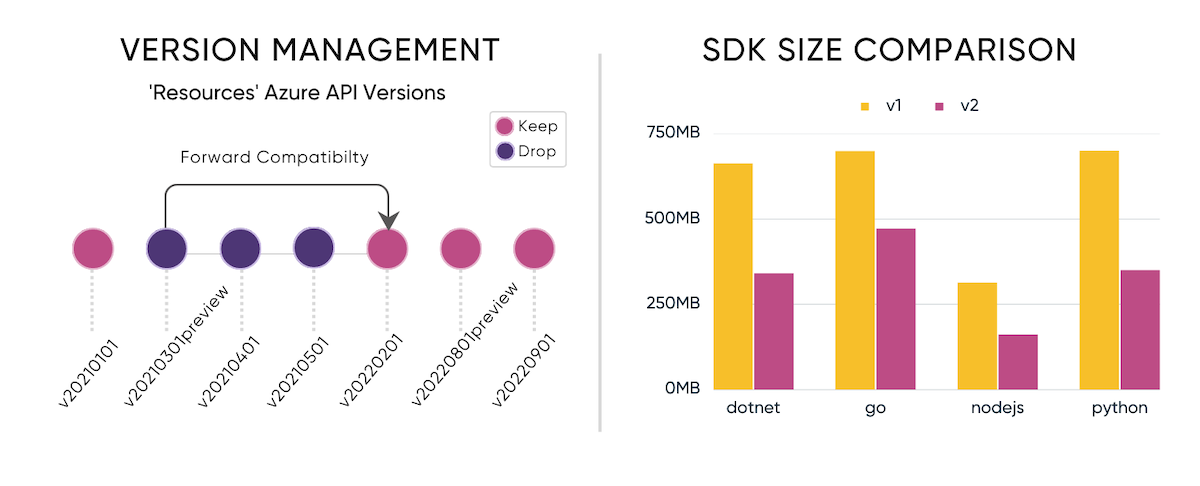
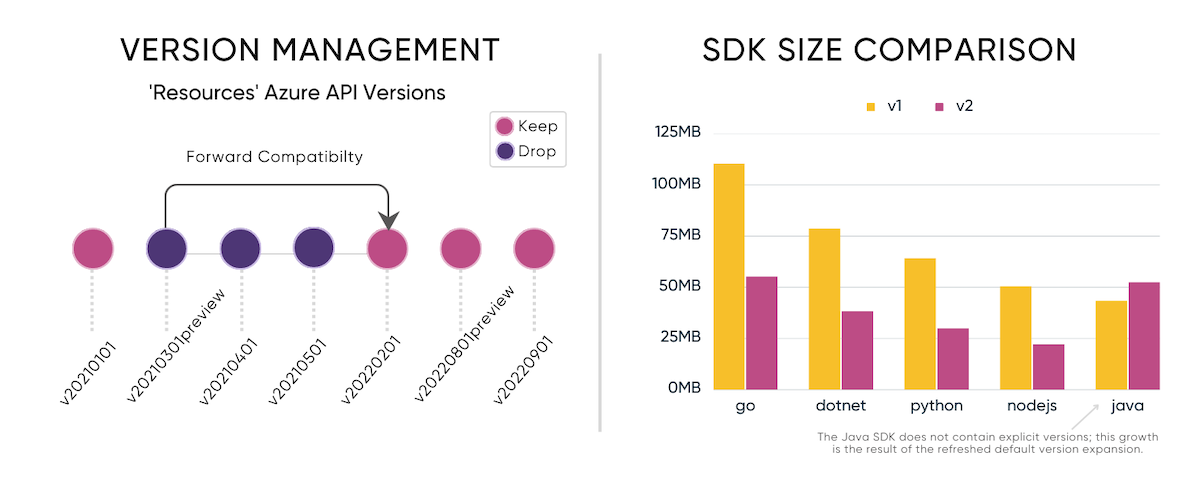
Update graphics, fix typos, clarify versions

diff --git a/pulumi-hugo/themes/default/content/blog/introducing-azure-native-v2/index.md b/pulumi-hugo/themes/default/content/blog/introducing-azure-native-v2/index.md
@@ -16,7 +16,7 @@ tags:
 
 ---
 
-{{% notes type="warning" %}}
+{{% notes type="info" %}}
 The Pulumi Azure Native Provider 2.0 is currently available in beta.
 {{% /notes %}}
 
@@ -26,17 +26,19 @@ We are thrilled to announce the highly anticipated beta release of the Pulumi Az
 
 At Pulumi, we understand the importance of keeping up with the ever-evolving cloud landscape. The Pulumi Azure Native Provider 2.0 represents our commitment to providing you with the best tools to harness the full power of Microsoft Azure while providing you with same-day access to the entire [Azure API surface](https://docs.microsoft.com/en-us/rest/api/azure/). Let's dive into some of the key enhancements in this release:
 
-## Reduced SDK Size for Faster Deployments
+## Reduced SDK Size for Faster Development
 
-We've listened to your feedback and have made significant optimizations to the Azure Native Provider SDKs. With careful fine-tuning and restructuring, we have achieved a remarkable decrease in SDK size of up to 60% <!-- TODO: Get latest size updates on alpha.3 once released -->. This improvement translates into faster deployment times, reduced resource consumption, and an overall smoother experience when working with the provider.
+We've listened to your feedback and have made significant optimizations to the Azure Native Provider SDKs. With careful fine-tuning and restructuring, we have achieved a remarkable decrease in size over 50% in SDKs with multi-versioned modules. This improvement translates into faster development times, reduced resource consumption, and an overall smoother experience when working with the provider.
 
-So, how did we accomplish this? For starters, we've removed all deprecated ARM API resources <!-- TODO: Link to list of deprecated resources --> up to the 2.0 release date. The bigger impact was made by identifying and removing all forward-compatible resource versions. That is to say we've exluded any redundant versions and kept the latest version until breaking changes. Where that version is not the current latest and new default, the explicit versions are still available.
+So, how did we accomplish this? For starters, we've removed all deprecated Azure API modules up to the 2.0 release date. The bigger impact was made by identifying and removing all forward-compatible module versions. That is to say we've excluded any redundant versions and kept only the versions that introduce breaking changes. Where these versions are not the current latest and new default, they remain available as explicit versions.
+
+You may be wondering about the significance between explicit and default versions. Well, when Azure releases new features they often create a new version of a service. These versions are named using dates such as "2021-01-02" or "2022-05-08-preview". There's many versions of each module in the SDK, so we pick a version of each module for the top-level default. To learn more about module versions, visit the [Azure Native Version Guide](https://www.pulumi.com/registry/packages/azure-native/version-guide/).
 
 ![version_squeeze_diagram](./azurev2-diagrams.png)
 
-## Refreshed Default Resource Versions
+## Refreshed Default Module Versions
 
-In the latest release, we have refreshed the default resource versions to align with the latest ARM API versions from Microsoft. With our continued committment to same-day access to Azure API surface, you always have access to the most up-to-date features and capabilities offered by Azure resources. By leveraging the latest resource versions, you can take advantage of the latest and most desired features directly from Azure while building your infrastructure with Pulumi.
+In the latest release, we have refreshed the default module versions to align with the latest ARM API versions from Microsoft. With our continued commitment to same-day access to Azure API surface, you always have access to the most up-to-date features and capabilities offered by Azure modules. By leveraging the latest module versions, you can take advantage of the latest and most desired features directly from Azure while building your infrastructure with Pulumi.
 
 If you would like to upgrade to 2.0, but continue using the same ARM API version that was used in your 1.0, you can do that by specifying the compatible explicit version available in the 2.0 provider. Shown below are examples of how that change might look.
 
@@ -84,25 +86,27 @@ If you would like to upgrade to 2.0, but continue using the same ARM API version
 {{% /choosable %}}
 {{< /chooser >}}
 
-## Expanded Resource Coverage
+## Expanded Module Per Version Coverage
 
-We're excited to introduce [over 100 new Azure resources](link TODO) in this release, expanding the coverage of our Azure Native Provider bringing the total to over ### <!-- TODO get most recent number -->. With this extensive collection of resources at your disposal, you can now easily provision and manage an even broader range of Azure services using Pulumi. Whether you're working with virtual machines, databases, networking, or any other Azure service, the Azure Native Provider has you covered.
+We're excited to expand our top-level default version coverage by 226 resources and 274 functions in this release, bringing the total to over 1600 resources and 2000 functions. With this extensive collection of modules at your disposal, you can easily provision and manage the full range of Azure services using Pulumi. Whether you're working with virtual machines, databases, networking, or any other Azure service, the Azure Native Provider has you covered.
+
+![version_squeeze_diagram](./azurev2-provider-coverage.png)
 
 ## Resolved Title Case Inconsistency
 
-In our commitment to excellence, we have [resolved title case inconsistencies](https://github.com/pulumi/pulumi-azure-native/pull/2366) across resource types and properties in the Azure Native Provider. All previous resource names have been aliased, so no additional modifications are required for existng Pulumi programs. This enhancement ensures a unified and predictable experience while switching between Azure and Pulumi resource references, making it easier for you to navigate and understand the provider's capabilities.
+In our commitment to excellence, we have [resolved title case inconsistencies](https://github.com/pulumi/pulumi-azure-native/pull/2366) across module types and properties in the Azure Native Provider. All previous module names have been aliased, so no additional modifications are required for existing Pulumi programs. This enhancement ensures a unified and predictable experience while switching between Azure and Pulumi module references, making it easier for you to navigate and understand the provider's capabilities.
 
 ## Simplified User Assigned Identity Inputs
 
-We have simplified the representation of user assigned identity inputs by recognizing them as string arrays. This change provides a more intuitive and clear approach when configuring user assigned identities for your Azure resources. You can now reference these as `#TODO example reference` without jumping through any hoops.
+We have simplified the representation of user assigned identity inputs by recognizing them as string arrays. This change provides a more intuitive and clear approach when configuring user assigned identities for your Azure modules. You can now reference these as `#TODO example reference` without jumping through any hoops.
 
 ## Migrating from 1.0 to 2.0
 
-We recommend you update to the [latest version of Azure Native 1.0](https://github.com/pulumi/pulumi-azure-native/releases/tag/v1.103.0) prior to moving to 2.0. This will enable you to adress existing deprectations and see the recommended subsitutions ahead of the major version upgrade. Head over to the [migration guide](link TODO) which outlines the necessary steps to update your existing Pulumi projects and ensuring a smooth migration experience.
+We recommend you update to the [latest version of Azure Native 1.0](https://github.com/pulumi/pulumi-azure-native/releases/tag/v1.103.0) prior to moving to 2.0. This will enable you to address existing deprecations and see the recommended substitutions ahead of the major version upgrade. Head over to the [migration guide](link TODO) which outlines the necessary steps to update your existing Pulumi projects and ensuring a smooth migration experience.
 
 Current users of the Pulumi Azure Classic Provider can follow the [classic to native migration guide](https://www.pulumi.com/registry/packages/azure-native/from-classic/) to take advantage of all the latest and greatest features available in Pulumi the Azure Native Provider.
 
-While you can immediately start leveraging the improved performance, you may need to make some changes in order to continue using specific ARM API resource versions or user assigned identity inputs. Use the Pulumi Azure Native Provider documenation within your IDE to determine the explicit version that is available and fully compatible.
+While you can immediately start leveraging the improved performance, you may need to make some changes in order to continue using specific Azure API module versions or user assigned identity inputs. Use the Pulumi Azure Native Provider documentation within your IDE to determine the explicit version that is available and fully compatible.
 
 <!-- TODO MAYBE Add code snippet of a before and after short program from default to calling an explicit verison and updating userassigned identities -->
 
